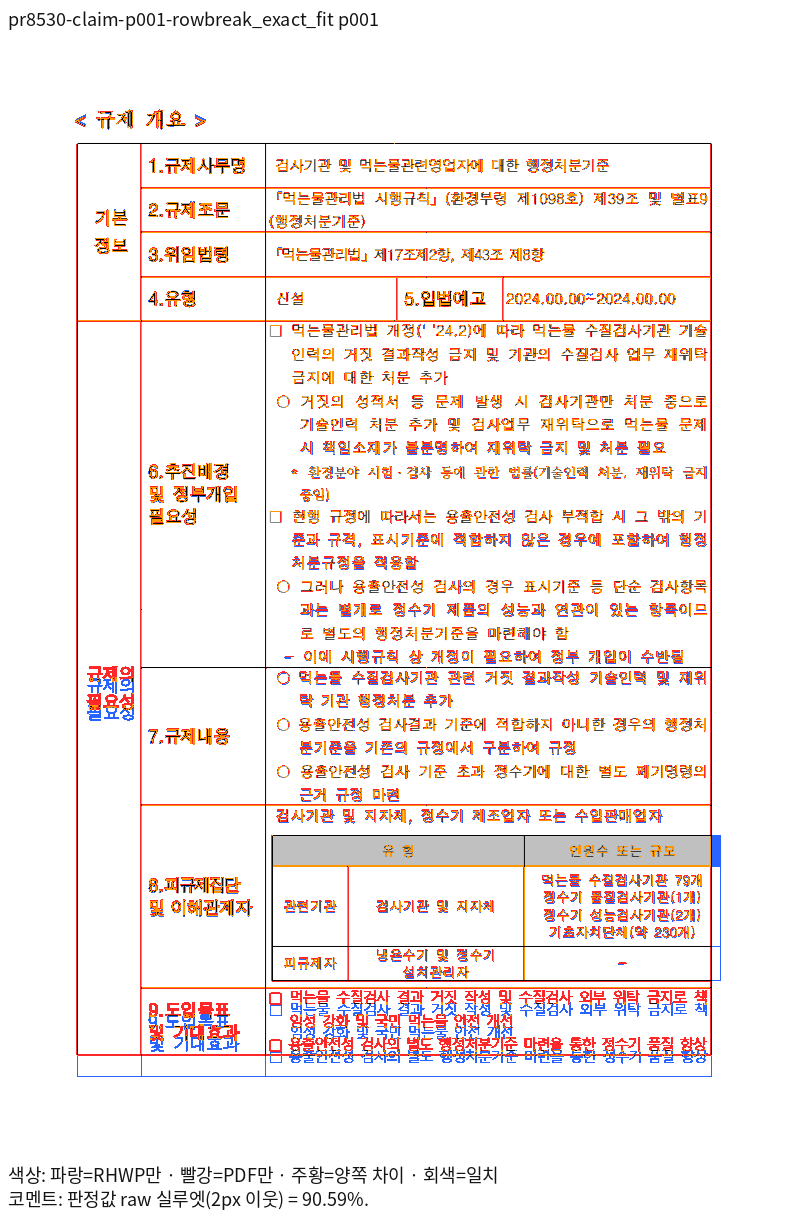
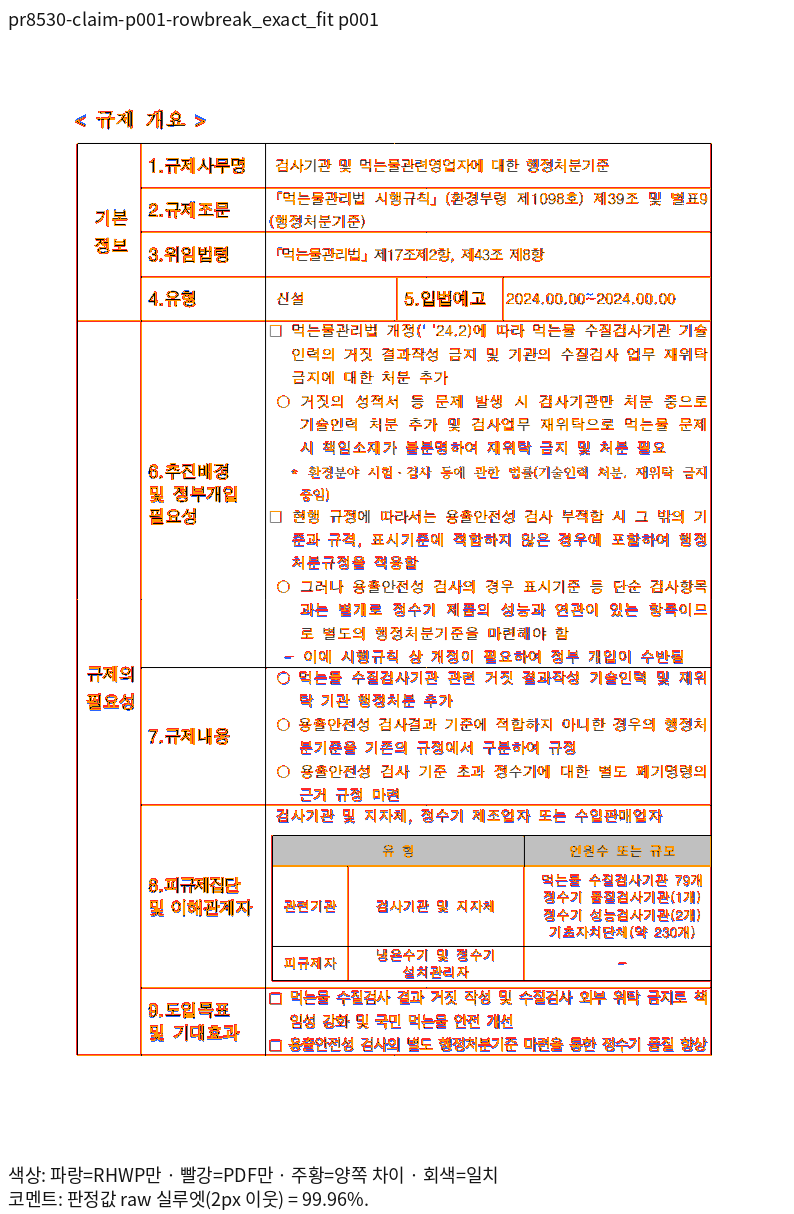
test: 첫 수용 프레임 회귀와 Native·WASM 전쪽 개선 증거 고정

diff --git a/tests/cases/issue_8529_accepted_opening_frame.rs b/tests/cases/issue_8529_accepted_opening_frame.rs
@@ -1,0 +1,115 @@
+//! 관계형·고정형(원본 선언 프레임 ±2 CSSpx): 수용한 첫 조각의 빈 띠 재배정 회귀.
+//! 주석 갱신: 2026-11-04T20:47:18+09:00; 신규 검사.
+//! 측정일 2026-11-04, 코드 dd0ac546e3389f1703e67cb86f1c5bdf615ff0c9.
+//! 96 DPI, 독립 한컴 Print와 Native Skia/fresh WASM Canvas의 색상 경계 보정 전 2px 실루엣.
+//! 전체 3쪽, Native 최저 99.94% / fresh WASM 최저 99.96%; 1쪽도 각각 99.94% / 99.96%.
+//! 2·3쪽은 두 경로 모두 100.00%. 첫 프레임·끝 행과 이어받기 영역을 직접 판독했다.
+//! 입력: samples/issue8529/rowbreak_exact_fit.hwpx.
+//! 독립 Print: pdf/issue8529_rowbreak_exact_fit-2020.pdf (한컴 2022, 3쪽).
+//! 입력 SHA-256: 6f29966a3e061fb1763b60d8b4bc8c4b0898a53b66989ab13449ecc147d05bf7.
+//! PDF SHA-256: c04a7cc89855a61a83c978d59686026adc68c672000e38deb9687397ec78a81f.
+//! 원본 선언 68,454 HU는 독립 Print의 첫 물리 프레임이며 전체 표의 내용 높이가 아니다.
+//! 절대 페이지 좌표 대신 원본 HU 프레임과 실제 조각의 크기·셀 포함·내용 소유를 대조한다.
+//! 양쪽 98% 이상인 완료 페이지의 ±2px 조건을 충족하며, 설치 글꼴의 존재를 요구하지 않는다.
+//! 전쪽 TSV와 같은 쪽 review/overlay·제품 해시: mydocs/pr/pr_8530_review.md.
+#![cfg(not(target_arch = "wasm32"))]
+
+use rhwp::model::control::Control;
+use rhwp::renderer::render_tree::{RenderNode, RenderNodeType};
+use rhwp::DocumentCore;
+
+fn walk<'a>(node: &'a RenderNode, nodes: &mut Vec<&'a RenderNode>) {
+    nodes.push(node);
+    for child in &node.children {
+        walk(child, nodes);
+    }
+}
+
+fn text(node: &RenderNode) -> String {
+    let mut nodes = Vec::new();
+    walk(node, &mut nodes);
+    nodes
+        .into_iter()
+        .filter_map(|node| match &node.node_type {
+            RenderNodeType::TextRun(run) => Some(run.text.as_str()),
+            _ => None,
+        })
+        .flat_map(str::chars)
+        .filter(|character| !character.is_whitespace())
+        .collect()
+}
+
+#[test]
+fn accepted_source_frame_is_not_extended_into_the_page_bottom_band() {
+    let mut core = DocumentCore::from_bytes(include_bytes!(
+        "../../samples/issue8529/rowbreak_exact_fit.hwpx"
+    ))
+    .expect("독립 Print와 같은 원본");
+    core.set_dpi(96.0);
+    core.set_hangul2024_compat(false);
+    let source = core.document().sections[0].paragraphs[1]
+        .controls
+        .iter()
+        .find_map(|control| match control {
+            Control::Table(table) if table.row_count == 31 && table.col_count == 17 => Some(table),
+            _ => None,
+        })
+        .expect("규제 개요 원본 표");
+    let declared_height = f64::from(source.common.height) * 96.0 / 7200.0;
+    assert!(declared_height > 0.0, "원본이 선언한 첫 물리 프레임");
+    let first = core.build_page_render_tree(0).expect("첫 조각");
+    let mut nodes = Vec::new();
+    walk(&first.root, &mut nodes);
+    let tables: Vec<_> = nodes
+        .iter()
+        .copied()
+        .filter(|node| {
+            matches!(&node.node_type, RenderNodeType::Table(table)
+            if table.para_index == Some(1) && table.cell_context.is_none())
+        })
+        .collect();
+    assert_eq!(tables.len(), 1, "첫 쪽은 원본 표의 첫 조각 하나를 소유");
+    let frame = tables[0];
+    assert!(
+        (frame.bbox.height - declared_height).abs() <= 2.0,
+        "독립 Print의 원본 첫 프레임에 쪽 끝 여유를 더하지 않는다: 실제={}, 원본={declared_height}",
+        frame.bbox.height
+    );
+    let mut checked_cells = 0;
+    let mut owns_cut_row = false;
+    for cell in &frame.children {
+        if let RenderNodeType::TableCell(owner) = &cell.node_type {
+            checked_cells += 1;
+            owns_cut_row |= owner.row == 7;
+            assert!(
+                cell.bbox.y >= frame.bbox.y - 2.0
+                    && cell.bbox.y + cell.bbox.height <= frame.bbox.y + frame.bbox.height + 2.0,
+                "첫 조각을 닫을 때 그 조각이 소유한 셀도 같은 물리 경계 안에 있다"
+            );
+        }
+    }
+    assert!(
+        checked_cells > 0 && owns_cut_row,
+        "실제 끝 행을 포함한 셀 소유를 검사"
+    );
+    const SECOND: &str = "별도행정처분기준마련을통한정수기품질향상";
+    const THIRD: &str = "이와더불어용출안전성검사부적합정수기의";
+    let first_text = text(frame);
+    let next = core.build_page_render_tree(1).expect("이어받기 조각");
+    let next_text = text(&next.root);
+    assert_eq!(
+        first_text.matches(SECOND).count(),
+        1,
+        "수용한 둘째 문단 보존"
+    );
+    assert!(!first_text.contains(THIRD), "셋째 문단은 다음 조각 소유");
+    assert_eq!(
+        next_text.matches(THIRD).count(),
+        1,
+        "이어받은 문단 누락·중복 없음"
+    );
+    assert!(
+        !next_text.contains(SECOND),
+        "이미 수용한 문단을 다시 내보내지 않는다"
+    );
+}

diff --git a/tests/cases/issue_8529_rowbreak_exact_fit.rs b/tests/cases/issue_8529_rowbreak_exact_fit.rs
@@ -1,12 +1,12 @@
 //! 관계형·고정형(쪽수·내용 소속 또는 원본 속성 계약): PR #8530의 정식 회귀.
-//! 주석 갱신: 2026-11-04T13:59:19+09:00; 직전 파일 변경: 2026-11-03T19:43:25+09:00 (`b17a3becdd76270c215aba63121c8985d6363c53`).
+//! 주석 갱신: 2026-11-04T21:01:52+09:00; 직전 파일 변경: 2026-11-04T20:02:06+09:00 (`13ca465dfcfd5e42d1520fe801cd33c5b9a2b820`).
 //! 현재 통합 측정 근거 시작
-//! 측정일 2026-11-04, 제품 코드 `dc87f4fa2e`(리베이스 전 통합 후보).
+//! 측정일 2026-11-04, 제품 코드 `dd0ac546e3389f1703e67cb86f1c5bdf615ff0c9`.
 //! 96 DPI, Native Skia/fresh WASM Canvas, `visual_sweep.py --silhouette-only`의
 //! `silhouette_raw_match_percent`(색상 경계 보정 전 2px 내용 실루엣).
 //! 입력 `samples/issue8529/rowbreak_exact_fit.hwpx`; 독립 Print `pdf/issue8529_rowbreak_exact_fit-2020.pdf`.
-//! 전체 3쪽, 전쪽 최저 Native 90.68% / fresh WASM 90.59%.
-//! 주장 1쪽 raw: Native 90.68% / fresh WASM 90.59%.
+//! 전체 3쪽, 전쪽 최저 Native 99.94% / fresh WASM 99.96%.
+//! 주장 1쪽 raw: Native 99.94% / fresh WASM 99.96%.
 //! 주장 2쪽 raw: Native 100.00% / fresh WASM 100.00%.
 //! 원본·TSV·대응 쪽 review/overlay: `mydocs/pr/pr_8530_review.md`.
 //! 전쪽 통과와 실제 절대 px 좌표 고정은 다른 조건이다. 본문 assertion의 원본 단위·상대 관계를 구분한다.

diff --git a/mydocs/pr/pr_8530_review.md b/mydocs/pr/pr_8530_review.md
@@ -1,80 +1,99 @@
-# PR #8530 리뷰 — fix(typeset): #8529 셀 단위 나눔 쪽 끝 행 — 저장 첫 조각을 정확히 채우는 컷을 받는다
+# PR #8530 리뷰 — 저장 첫 조각의 정확한 컷과 원본 프레임 보존
 
 ## 최종 판정
 
-**메인터너 보정 후 수용 가능**
-메인터너가 통합 후보의 실제 전쪽 증적과 회귀 근거를 보강했습니다. 원 PR에 대응하는 입력·쪽과 반례는 아래에 기록했습니다.
-증적·회귀 첫머리 보강 커밋은 `e3986247e9`·`65d345f8fd`입니다. 원 head와 보정된 통합 후보를 구분합니다.
-새 devel `1924d371d6` 반영 뒤 기능 보존과 최종 공통 검증을 마치면 통합 PR을 준비합니다. PR 생성은 작업지시자 승인 대기입니다.
-아래 값은 명시한 코드 SHA의 실측 결과이며 원 PR의 승인이나 닫기를 뜻하지 않습니다.
+**메인터너 보정 후 수용 가능 — 최종 공통 검증 대기**
+
+원 PR의 정확한 컷 수용을 유지하면서 메인터너가 첫 프레임의 높이·중첩 셀 경계를
+보정했습니다. 새 base 후보의 Native/fresh WASM 전3쪽과 주장 쪽의 직접 판독을
+완료했고 새 회귀도 최소 글꼴 환경에서 통과했습니다. 최종 통합 검증을 마친 뒤 판정을 확정합니다.
+PR 생성은 작업지시자 승인 대기이며 원 PR에 원격 승인·닫기를 실행하지 않았습니다.
 
 ## 접수 정보
 
 | 항목 | 값 |
 | --- | --- |
-| 원 PR | [#8530](https://github.com/edwardkim/rhwp/pull/8530) · `planet6897` → `devel` |
+| 원 PR | [PR #8530](https://github.com/edwardkim/rhwp/pull/8530), `planet6897` → `devel` |
 | 원 head | `7cde7a2d44142e28817db46b12fedff9b7360a15` |
-| 통합 적용 커밋 | `b17a3becdd76,76938e345146` |
-| 검토 기준 devel | `7d06d5c706f1d89f1662e739abf2b1b25d2a98e4` |
-| 실측 제품 코드 | `dc87f4fa2e` (이후 회귀·문서 변경과 구분) |
-| reviewer | `jangster77` 요청. 2026-11-04 원 head 불변·Open·non-Draft·요청 상태 재확인 |
-| 기본 경로 | `maintainer_general` |
-| 보조 경로 | `intake_and_review`, `local_validation`, `visual_fixture_evidence`, `multi_pr_update_branch`, `post_merge` |
-| 관련 이슈 | [#8529](https://github.com/edwardkim/rhwp/issues/8529) |
+| 통합 적용 | `1466017424`, `2de9f20e7b` |
+| 메인터너 구현 보정 | `13c20a5d79`, `ffcbdebd96`, `b52a15a4f5` |
+| 고정 devel | `782ab3e2d06380d7d36660f07d76ef4c8c7c0c0a` |
+| 실측 제품 코드 | `dd0ac546e3389f1703e67cb86f1c5bdf615ff0c9` |
+| reviewer | `jangster77` 요청. 2026-11-04 원 head·Open·non-Draft 확인 |
+| 관련 이슈 | [이슈 #8529](https://github.com/edwardkim/rhwp/issues/8529) |
+| 기본·보조 경로 | `maintainer_general`; `intake_and_review`, `local_validation`, `visual_fixture_evidence`, `multi_pr_update_branch`, `post_merge` |
 
-## 변경과 검토 범위
+## 원 주장과 메인터너 보정
 
-원 PR의 변경 주장은 **fix(typeset): #8529 셀 단위 나눔 쪽 끝 행 — 저장 첫 조각을 정확히 채우는 컷을 받는다**입니다. 해당 주장에 연결된 입력과 쪽을 아래에 분리해 적었습니다.
-적층 PR에 중복 포함된 선행 커밋과 이 PR의 실제 신규 커밋은 최종 통합 기록에서 구분합니다.
+원 PR은 첫 조각을 정확히 채우는 `[2, 3]` 컷이 HU→px 부동소수 잡음 때문에 거부되어
+문단이 다음 쪽으로 밀리는 문제를 고칩니다. 실제 초과를 수용하도록 예산을 넓히지 않고,
+같은 컷의 동등 경계를 판단하는 계약을 유지합니다.
+
+메인터너는 같은 입력의 마지막 행 과대 높이와 중첩 표 우측 넘침도 확인했습니다.
+최종 수용 행 계획을 저장 원점에 게시하고, 부분 표의 온전한 셀에도 기존 부모 clip을
+적용했습니다. 첫 프레임의 잔여 높이는 스캔에서 올바르게 확정됐으나, 이후 일반 쪽 하단의
+빈 띠를 이미 닫힌 첫 프레임에 다시 배정해 높이를 늘리는 실제 소비 경로가 남아 있었습니다.
+
+독립적으로 인증한 원본 프레임과 실제 수용·확정 높이가 모두 닫힌 경우, 빈 띠 계산도
+그 프레임을 소비하도록 보정했습니다. 문서 ID나 관측 오차를 상수로 넣지 않습니다.
+인증되지 않은 프레임·다른 컷·이어받기 조각에는 이 제한을 적용하지 않습니다.
+생산·측정·배치와 수정 전후 진단은 [분석 기록](../working/task_m100_8529_source_frame_row_origin.md)에 있습니다.
 
 ## 검증 입력과 전쪽 결과
 
-| 입력 · 독립 Print PDF | Native 전쪽 TSV · 최저 raw | fresh WASM 전쪽 TSV · 최저 raw |
+원본은 [rowbreak_exact_fit.hwpx](../../samples/issue8529/rowbreak_exact_fit.hwpx),
+독립 기준은 [한컴 2022 Print PDF](../../pdf/issue8529_rowbreak_exact_fit-2020.pdf)입니다.
+PDF 파일명의 `2020`과 실제 생성 제품을 구분하며 기존 유효한 Print를 재사용했습니다.
+
+| 자료 | SHA-256 |
+| --- | --- |
[4 lines of base64/hex data omitted]
+
+96 DPI·Print 2022·전체 시스템 글꼴 공급, 색상 경계 보정 전 2px 실루엣입니다.
+원본·PDF의 독립 전체 쪽수는 3쪽이고 양쪽 모두 같은 3쪽을 출력했습니다.
+원본·PDF는 현재 Git 내용과도 바이트 단위로 일치합니다.
+
+| 쪽 | Native raw | fresh WASM raw | 확인할 내용 |
+| --- | --- | --- | --- |
+| 1 | 99.94% | 99.96% | 첫 프레임·끝 행·중첩 셀 경계와 둘째 문단 |
+| 2 | 100.00% | 100.00% | 셋째 문단의 이어받기와 일몰 머리 행 |
+| 3 | 100.00% | 100.00% | 미설정 행부터 마지막 계획까지의 내용 보존 |
+
+전쪽 원본 TSV: [Native](assets/planet6897_20261103/pr_8530/pr8530-rowbreak_exact_fit-b431a6d3-native.tsv) ·
+[fresh WASM](assets/planet6897_20261103/pr_8530/pr8530-rowbreak_exact_fit-b431a6d3-wasm.tsv).
+수치는 TSV의 표시값이며 1쪽 원시 raw는 Native 99.93715%, fresh WASM 99.95896%입니다.
+이전 제품의 1쪽 Native 90.68%·WASM 90.59%를 새 제품의 결과로 재사용하지 않습니다.
+
+## 원 주장 쪽의 시각 증적과 직접 판독
+
+| 같은 입력의 쪽 | Native review · overlay | fresh WASM review · overlay |
 | --- | --- | --- |
-| [rowbreak_exact_fit.hwpx](../../samples/issue8529/rowbreak_exact_fit.hwpx) · [issue8529_rowbreak_exact_fit-2020.pdf](../../pdf/issue8529_rowbreak_exact_fit-2020.pdf) | [TSV](assets/planet6897_20261103/pr_8530/pr8530-rowbreak_exact_fit-b431a6d3-native.tsv) · 90.68% (3쪽) | [TSV](assets/planet6897_20261103/pr_8530/pr8530-rowbreak_exact_fit-b431a6d3-wasm.tsv) · 90.59% (3쪽) |
+| 1쪽: 수용 컷·첫 물리 프레임 | [review](assets/planet6897_20261103/pr_8530/pr8530-claim-p001-rowbreak_exact_fit-native-review.png) · [overlay](assets/planet6897_20261103/pr_8530/pr8530-claim-p001-rowbreak_exact_fit-native-overlay.png) | [review](assets/planet6897_20261103/pr_8530/pr8530-claim-p001-rowbreak_exact_fit-wasm-review.png) · [overlay](assets/planet6897_20261103/pr_8530/pr8530-claim-p001-rowbreak_exact_fit-wasm-overlay.png) |
+| 2쪽: 다음 조각의 시작 | [review](assets/planet6897_20261103/pr_8530/pr8530-claim-p002-rowbreak_exact_fit-native-review.png) · [overlay](assets/planet6897_20261103/pr_8530/pr8530-claim-p002-rowbreak_exact_fit-native-overlay.png) | [review](assets/planet6897_20261103/pr_8530/pr8530-claim-p002-rowbreak_exact_fit-wasm-review.png) · [overlay](assets/planet6897_20261103/pr_8530/pr8530-claim-p002-rowbreak_exact_fit-wasm-overlay.png) |
 
-96 DPI, 색상 경계 보정 전 2px 실루엣입니다. 검증 입력과 Print PDF는 같은 행에서 대응합니다.
-원본·PDF SHA와 Print 절차, 모든 쪽의 누락·쪽수 대조는 통합 증거 목록에서 확정합니다.
+독립 PDF와 같은 배율에서 마지막 행의 높이·가운데 정렬, 중첩 표의 우측 경계,
+줄 시작과 이어받기를 직접 확인했습니다. 원본의 첫 물리 프레임 68,454 HU를 닫은 뒤에
+용지 하단의 여유를 다시 더하지 않는 것을 확인했습니다.
 
-## 조판 원칙 준수 검토
+## 회귀와 최종 공통 검증
 
-적용 대상입니다. 원본 저장값·독립 Print를 근거로 공통 규칙, 측정과 실제 배치의 소비 지점, 내용 소속·순서 및 적용되지 않는 반례를 아래에서 대조합니다.
+[기존 컷·내용 소유 회귀](../../tests/cases/issue_8529_rowbreak_exact_fit.rs)를 유지합니다.
+[새 프레임 회귀](../../tests/cases/issue_8529_accepted_opening_frame.rs)는 원본 선언 높이와
+실제 표·셀 포함, 다음 쪽의 내용 소유를 검사합니다. 전3쪽의 양쪽 90% 이상을 먼저 확인했고,
+양쪽 98% 이상인 1쪽에서만 ±2 CSSpx를 사용합니다. 설치된 글꼴에 의존하지 않습니다.
+새 회귀는 최소 글꼴 5개·Native Skia 기능 환경에서 1건 통과했습니다(exit 0).
+수정 전·후의 실제 렌더 트리도 원본 XML의 프레임 높이와 대조해 각각 조건 위반·통과를 확인했습니다.
+새 검사는 기존 컷·내용 검사를 바꾸지 않고 별도 이름으로 추가했습니다.
 
-## 구현 주장과 검증 증거의 대조
-
-선택한 저장 첫 조각을 정확히 채우는 행 컷은 HU→px의 부동소수 반올림 때문에 예산 초과로 거부하지 않는다.
-
-typeset/table의 컷 비교와 마지막 수용 조건이 같은 요구 높이·예산의 동등 경계를 해석하는지 대조한다. 실제 초과를 받아들이도록 예산을 넓히는 방식으로 해결하지 않는다.
-
-먹는물관리법 축약 입력의 1·2·3쪽에서 둘째·셋째 문단과 마지막 행의 소속·순서를 확인한다. 정확히 맞는 경계와 실제 초과의 대조군을 유지한다.
-
-관련 정식 회귀 파일: [issue_8529_rowbreak_exact_fit.rs](../../tests/cases/issue_8529_rowbreak_exact_fit.rs)
-
-## 검증 입력 커밋 확인
-
-이번 통합의 [입력·PDF SHA-256 대조표](assets/planet6897_20261103/input-integrity.tsv)에 있는
-148개 파일은 증적 고정 커밋 `fd97ae040f`의 파일 내용과 일치합니다.
-위 개별 입력은 저장소의 동일 파일을 재사용합니다.
-
-## 원 PR 주장 쪽의 시각 증적
-
-| 입력 · 쪽 · 검토 대상 | Native raw · review / overlay | fresh WASM raw · review / overlay |
-| --- | --- | --- |
-| `rowbreak_exact_fit.hwpx` 1쪽 · 행 끝 정확한 컷 | 90.68% · [review](assets/planet6897_20261103/pr_8530/pr8530-claim-p001-rowbreak_exact_fit-native-review.png) / [overlay](assets/planet6897_20261103/pr_8530/pr8530-claim-p001-rowbreak_exact_fit-native-overlay.png) | 90.59% · [review](assets/planet6897_20261103/pr_8530/pr8530-claim-p001-rowbreak_exact_fit-wasm-review.png) / [overlay](assets/planet6897_20261103/pr_8530/pr8530-claim-p001-rowbreak_exact_fit-wasm-overlay.png) |
-| `rowbreak_exact_fit.hwpx` 2쪽 · 정확히 채운 행의 다음 쪽 시작 | 100.00% · [review](assets/planet6897_20261103/pr_8530/pr8530-claim-p002-rowbreak_exact_fit-native-review.png) / [overlay](assets/planet6897_20261103/pr_8530/pr8530-claim-p002-rowbreak_exact_fit-native-overlay.png) | 100.00% · [review](assets/planet6897_20261103/pr_8530/pr8530-claim-p002-rowbreak_exact_fit-wasm-review.png) / [overlay](assets/planet6897_20261103/pr_8530/pr8530-claim-p002-rowbreak_exact_fit-wasm-overlay.png) |
-
-## 통합 최종 검증 조건
-
-- 리베이스 전 제품 `dc87f4fa2e`의 해당 전쪽 Native/fresh WASM 측정은 완료했습니다. 전체 Rust 12,498개 중 1건 기준 누락은 `70a9d870ee`에서 독립 Print로 보정한 뒤 통과했습니다.
-- `65d345f8fd`의 40개 회귀 첫머리 보강은 주석 외 내용이 동일합니다. 새 devel의 제품 변경과 구분해 검증합니다.
-- 새 devel의 Native 글꼴·측정 경로와 이번 통합을 함께 반영한 최종 head에서 필수 회귀·lint·출력 보존을 확인합니다.
-- 고정 `upstream/devel`과 같은 입력·Print·글꼴 조건에서 전쪽 raw 하락을 비교합니다.
-- 위 주장 쪽 review와 overlay를 독립 Print와 확대 대조해 내용·순서·격자·간격을 직접 판독합니다.
-- 누락 증적이나 90% 미만 쪽이 있으면 보정 후 다시 측정합니다.
+최종 통합 후보의 전체 Rust·Skia·lint, 고정 devel 대비 0.1%p 하락 대조,
+PR #8389·#8397의 원 TSV 표시값 무하락 검증을 마친 뒤 최종 판정을 갱신합니다.
 
 ## Merge 후 원 PR 후속 처리
 
-통합 PR의 merge SHA와 검증한 동일 입력·쪽의 TSV 및 review/overlay를 원 PR에 연결합니다.
-댓글 게시와 원 PR 닫기는 최종 통합 검증 및 merge 후에 판정합니다.
+통합 PR의 merge SHA·CI와 같은 입력·주장 쪽의 TSV·review/overlay를 원 PR에 연결합니다.
+댓글 게시와 원 PR 닫기는 최종 통합 검증과 merge 이후 승인된 후속 절차를 따릅니다.
 
 <!-- planet6897-20261103-generated-review -->

diff --git a/mydocs/working/task_m100_8529_source_frame_row_origin.md b/mydocs/working/task_m100_8529_source_frame_row_origin.md
@@ -124,3 +124,29 @@ ignored output의 `accepted-frame-4e182b94c4-native/pr8530-accepted-frame/`에
 이는 리베이스 전 고정 제품의 원인 확인 결과다. 새 base `782ab3e2d0` 반영 뒤의
 최종 Native/fresh WASM 출력으로 표기하지 않는다. fresh WASM 전쪽·확대 판독과
 정상 대조군을 완료한 뒤 새 프레임 관계 회귀를 추가하고 개별 리뷰를 최종 갱신한다.
+
+## 새 base 제품의 양쪽 전쪽·새 회귀 확인
+
+코드 `dd0ac546e3389f1703e67cb86f1c5bdf615ff0c9`의 Native/fresh WASM 전3쪽을
+새로 출력했다. Native는 99.94% / 100.00% / 100.00%, fresh WASM은
+99.96% / 100.00% / 100.00%다. 1·2쪽의 실제 review·overlay를 다시 생성해
+첫 프레임과 마지막 행·중첩 셀 경계·다음 조각의 시작을 독립 PDF와 직접 확인했다.
+새 Native의 세 PNG는 앞선 고정 제품 `4e182b94c4`의 세 PNG와도 바이트가 같다.
+
+원본 XML의 선언 68,454 HU를 독립 기대 크기로 사용하는 별도 검사
+`issue_8529_accepted_opening_frame::accepted_source_frame_is_not_extended_into_the_page_bottom_band`를
+추가했다. 표의 크기뿐 아니라 실제 끝 행을 포함한 셀의 포함, 첫 조각·다음 조각의
+내용 소유·보존·중복 여부를 확인한다. 첫 쪽의 양쪽 raw 98% 이상·직접 판독을 완료해
+±2 CSSpx 조건을 충족한다. 설치 글꼴을 요구하거나 글꼴이 없으면 건너뛰지 않는다.
+
+원본 XML과 수정 전·후 실제 렌더 트리를 같은 검사 조건에 대조했다.
+원본 912.72px에 대해 수정 전 상자는 934.5px로 조건을 위반하고, 수정 후는 913.0px로
+통과했다. 이 별도 진단과 새 Rust 검사 실행은 구분한다. 새 Rust 검사는 최소 글꼴 5개를
+노출한 Native Skia 기능 환경에서 1건 통과했다(exit 0, 나머지 304건은 집중 필터 제외).
+기존 컷 회귀의 assertion은 유지하고 측정 주석만 현재 근거로 갱신했다.
+
+현재 정식 전쪽 TSV·1·2쪽 review/overlay와 해시는
+`mydocs/pr/pr_8530_review.md`에 연결했다. 원시 실행은 ignored output의
+`logs/accepted-frame-regression-minfont.log`,
+`logs/accepted-frame-independent-before-after.json`에 있다.
+최종 전체 Rust·Skia·lint·새 base 비교와 다른 원 PR의 보존 검증은 아직 완료 전이다.
